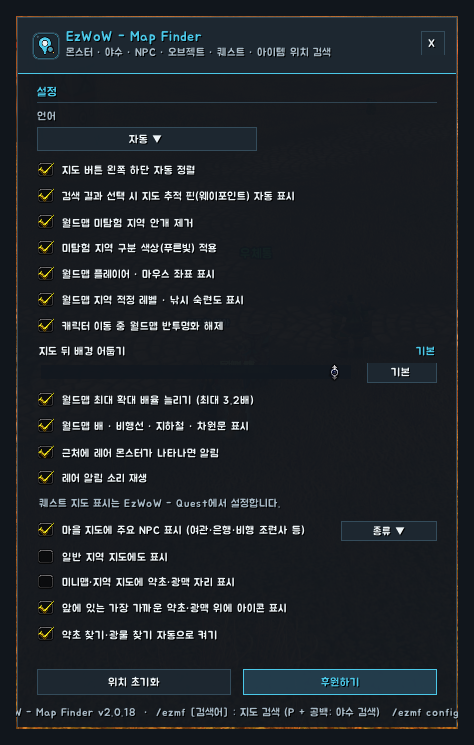
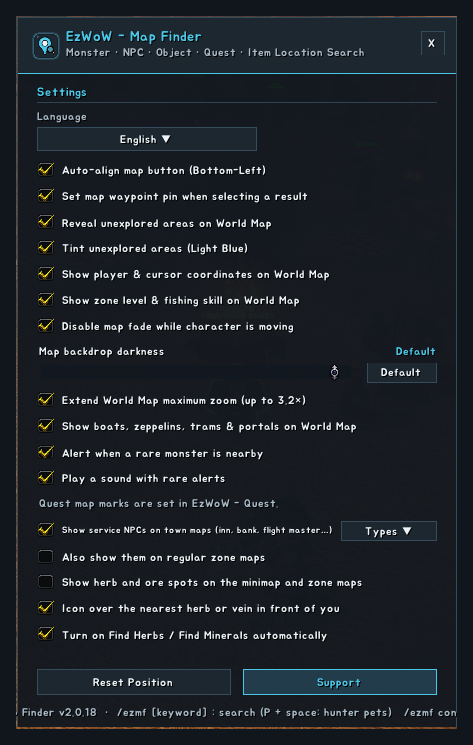
영어 설명용 게임 화면 추가

diff --git a/docs/curseforge_description.md b/docs/curseforge_description.md
@@ -13,7 +13,7 @@ An offline location search for the World Map of WoW Forever: monsters, rare elit
 
 ![Settings window](https://raw.githubusercontent.com/qqhrqqhr2/EzWoW-MapFinder/master/docs/images/settings_en.png)
 
-*In-game screenshots (WoW Forever, Korean client). Character and player names and chat text are blurred.*
+*In-game screenshots with the addon set to English. The game client is Korean, so game text such as zone, item and spell names stays Korean. Character and player names and chat text are blurred.*
 
 ## Features
 

diff --git a/README.md b/README.md
@@ -157,7 +157,7 @@ Map Finder is an offline location search for the World Map: **monsters, rare eli
 
 ![Settings window](docs/images/settings_en.png)
 
-> In-game screenshots (WoW Forever, Korean client). Character and player names and chat text are blurred.
+> In-game screenshots with the addon set to English. The game client is Korean, so game text such as zone, item and spell names stays Korean. Character and player names and chat text are blurred.
 
 ### Installation
 
